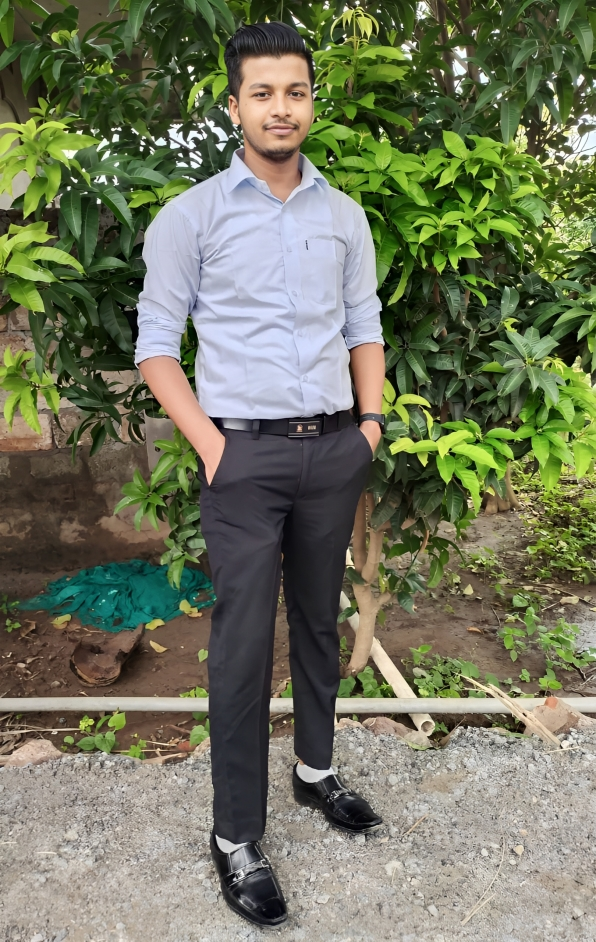
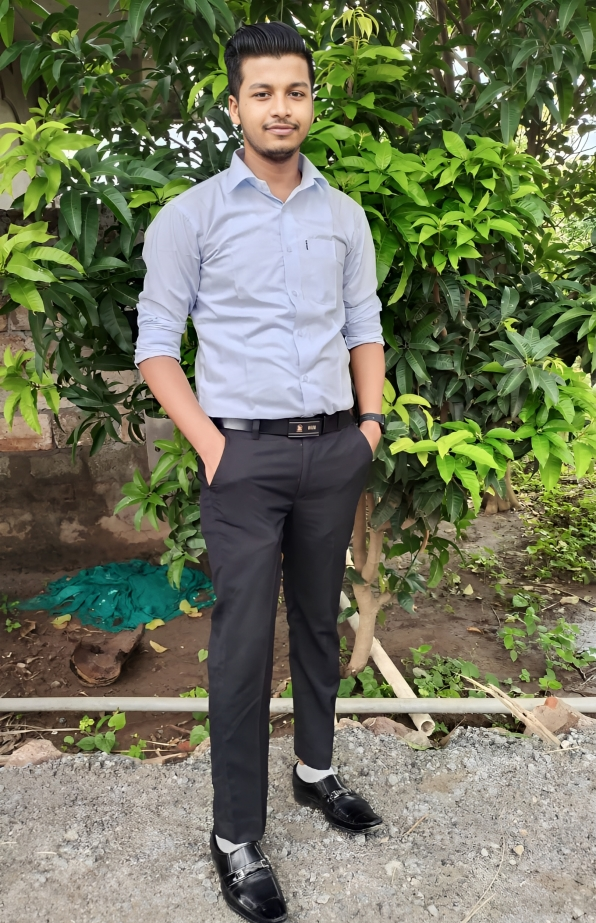
removed filter

diff --git a/forensixplore/src/components/Team.jsx b/forensixplore/src/components/Team.jsx
@@ -3,7 +3,7 @@ import forensixplore from '../assets/forensixplore.mp4'
 import mithun from '../assets/img/team/Midhun sai Kothagundla.jpg'
 import khaja from '../assets/img/team/khaja.png'
 import sumanth from '../assets/img/team/sumanth.jpg'
-import niranjan from '../assets/img/team/Kutumb_Head.png'
+import niranjan from '../assets/img/team/Kutumb_Head (2).png'
 import koushik from '../assets/img/team/koushik.jpg'
 import nikhil from '../assets/img/team/nikhil.jpg'
 import snigdha from '../assets/img/team/snigdha.jpg'

diff --git a/teamcard.html b/teamcard.html
@@ -236,7 +236,7 @@
             </ul>
           </div>
           <div class="teamcontainer">
-            <img src="assets/img/team/Kutumb_Head.png" />
+            <img src="assets/img/team/Kutumb_Head (2).png" />
             <div class="text-container">
               <h4>Niranjan sah</h4>
               <h6>Administrator Head</h6>

diff --git a/assets/css/team.css b/assets/css/team.css
@@ -48,7 +48,7 @@
 .teamcontainer img {
   width: 100%;
   height: 100%;
-  filter: grayscale(100%);
+  /* filter: grayscale(100%); */
   transition: 1s;
 }
 

diff --git a/forensixplore/src/assets/css/team.css b/forensixplore/src/assets/css/team.css
@@ -48,7 +48,7 @@
 .teamcontainer img {
   width: 100%;
   height: 100%;
-  filter: grayscale(100%);
+  /* filter: grayscale(100%); */
   transition: 1s;
 }
 
